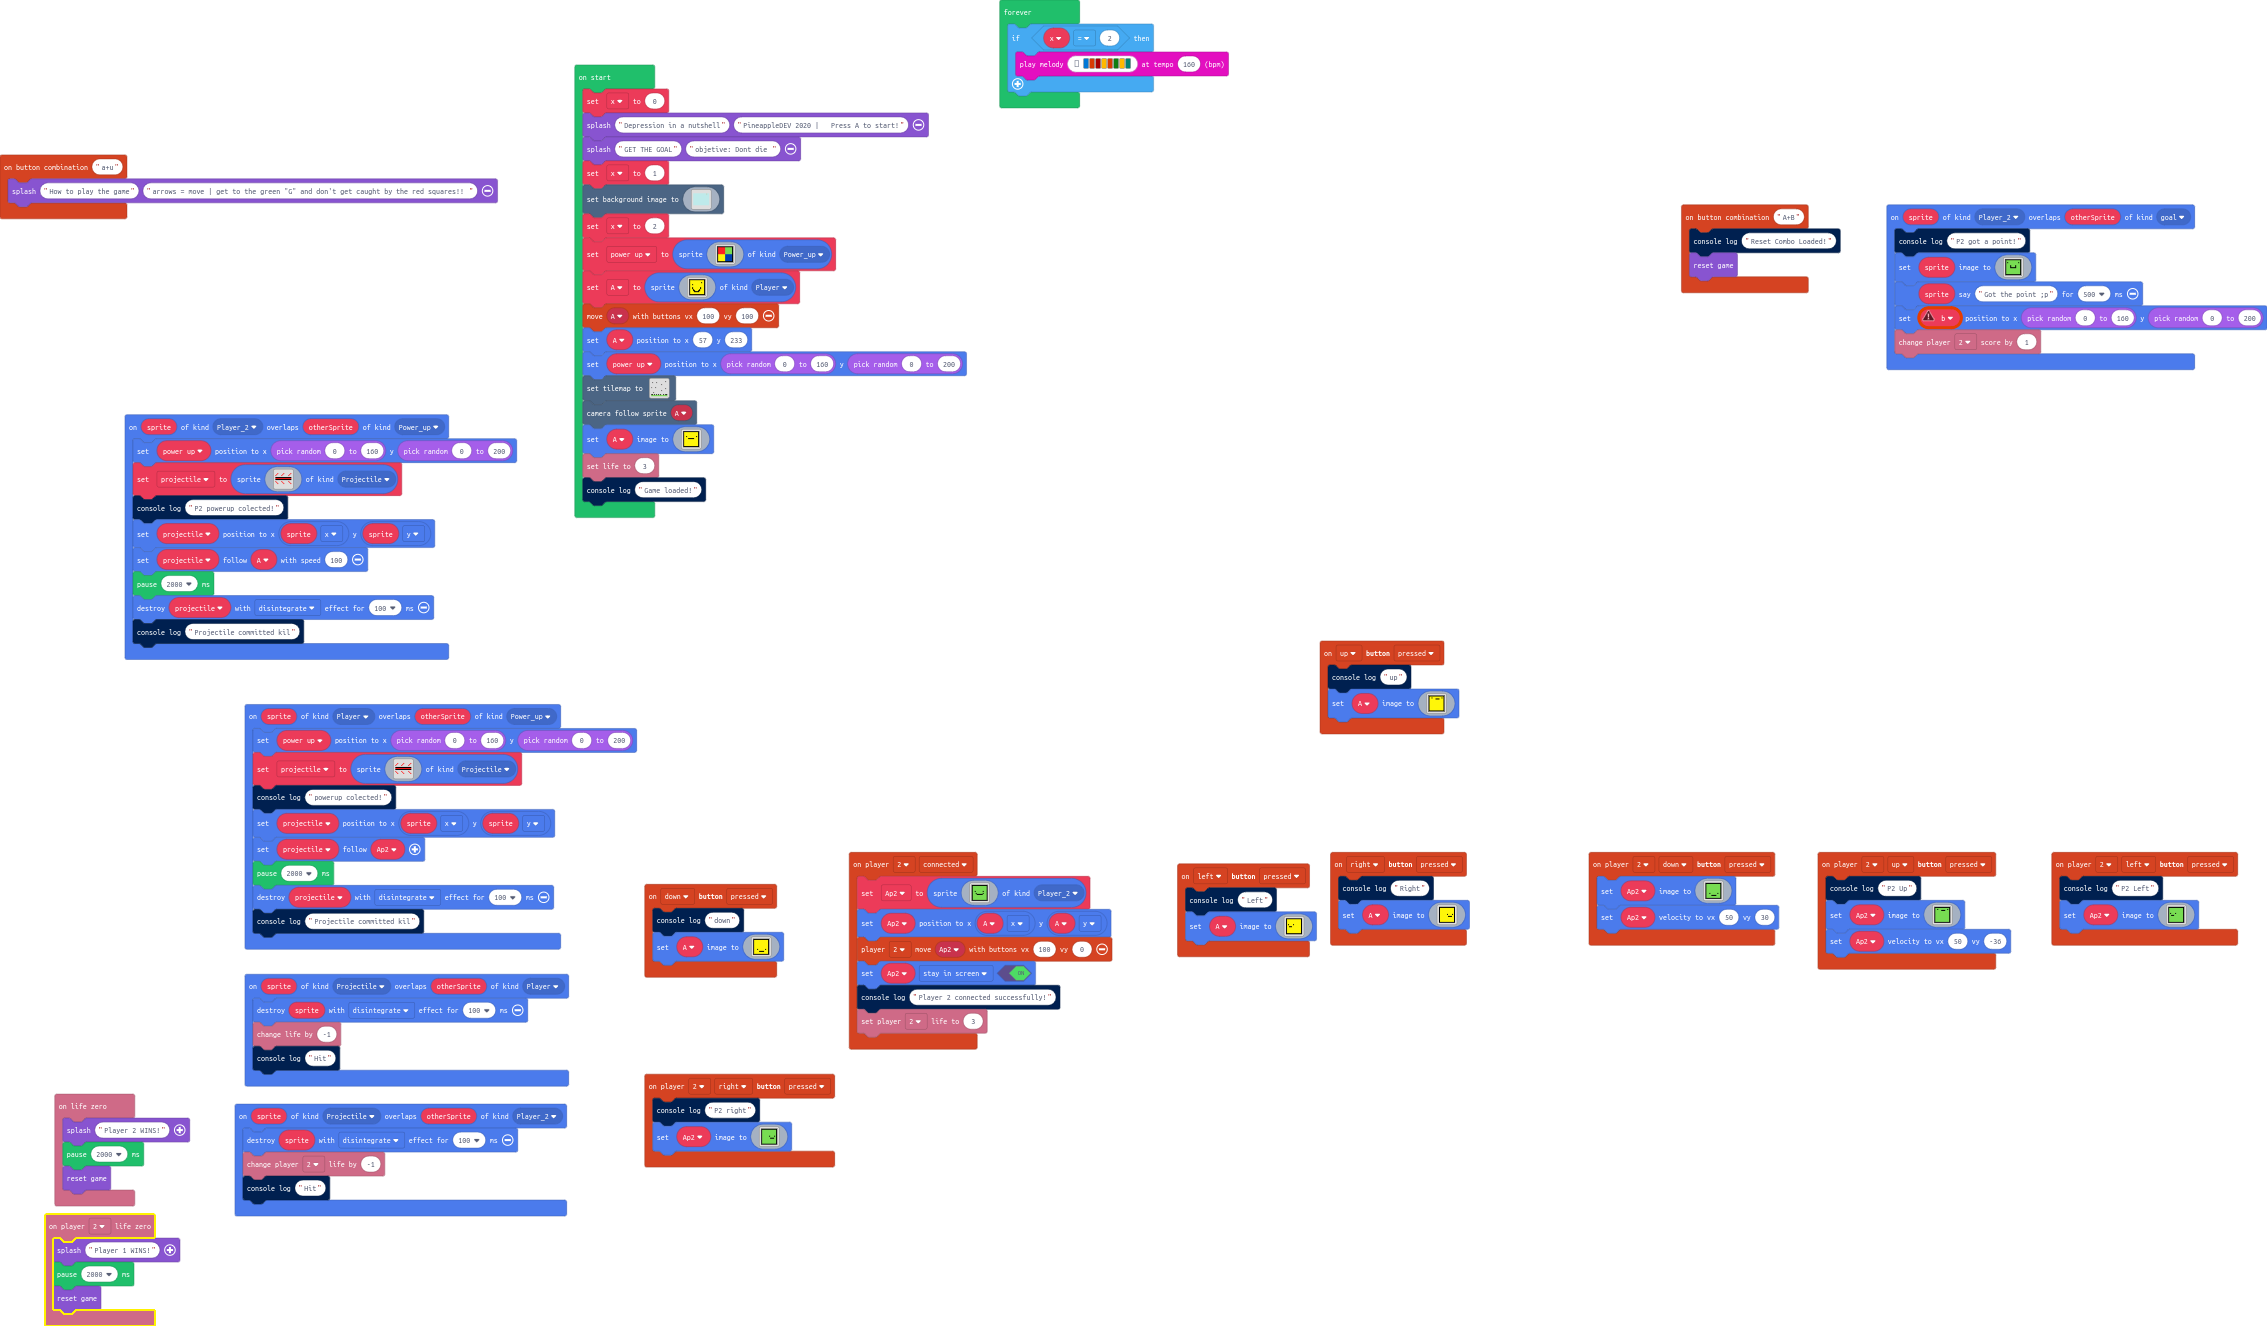
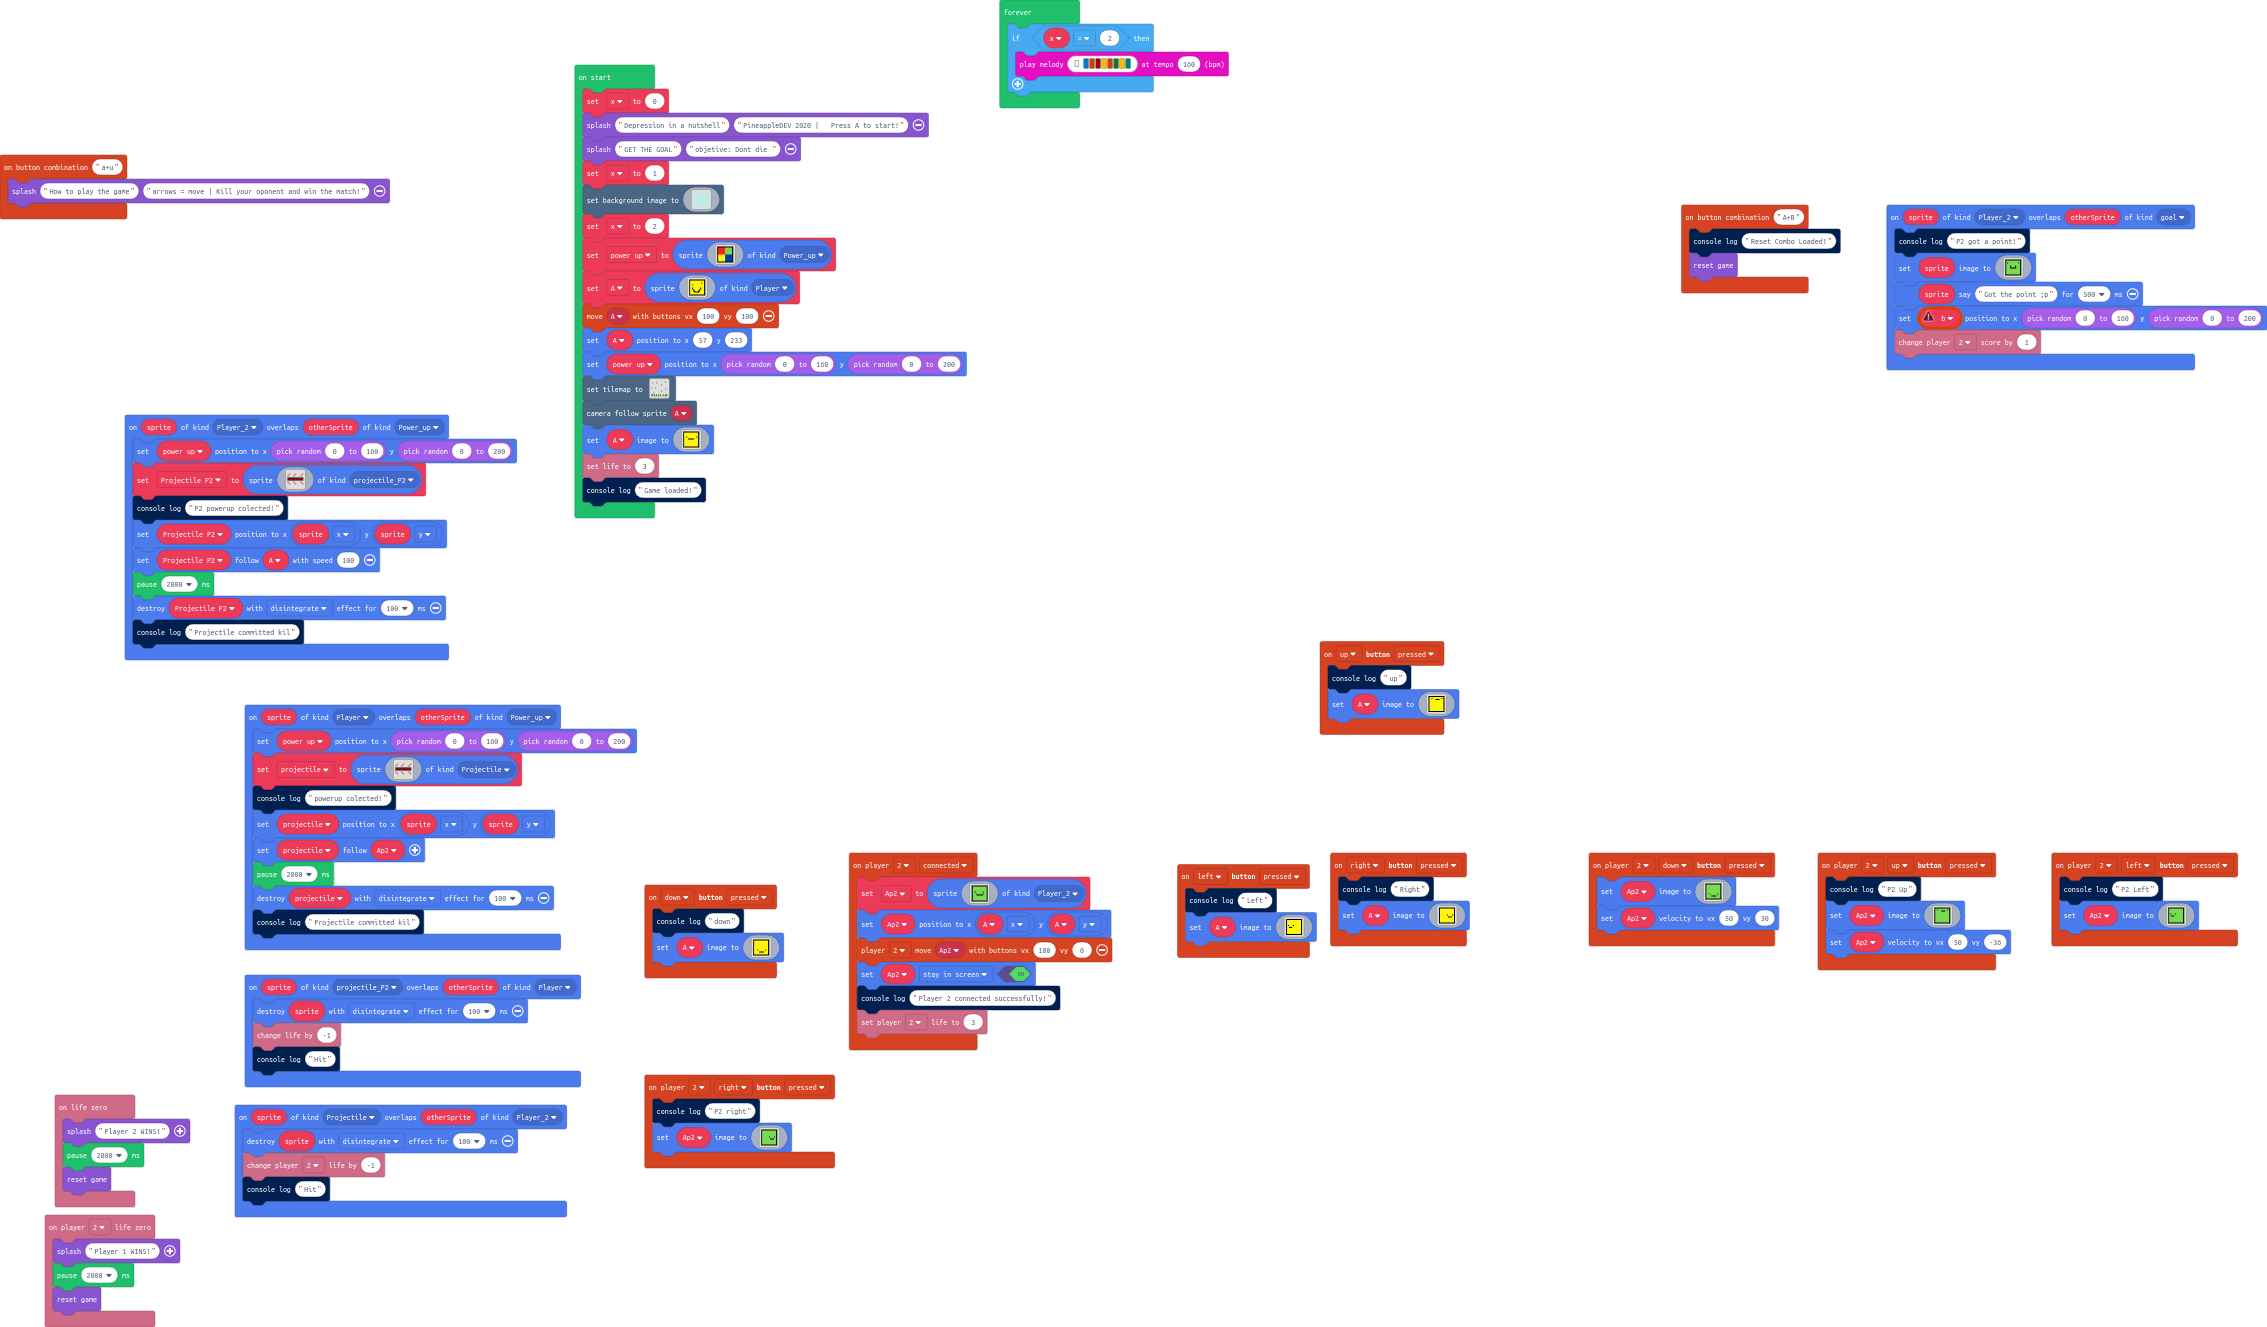
Added Pvp Arena mode!! Next up is More powerups!

diff --git a/main.ts b/main.ts
@@ -3,6 +3,7 @@ namespace SpriteKind {
     export const goal = SpriteKind.create()
     export const Player_2 = SpriteKind.create()
     export const Power_up = SpriteKind.create()
+    export const projectile_P2 = SpriteKind.create()
 }
 namespace myTiles {
     //% blockIdentity=images._tile
@@ -142,7 +143,7 @@ f f f f f f f f f f f f f f f f
 `)
 })
 controller.combos.attachCombo("a+u", function () {
-    game.splash("How to play the game", "arrows = move | get to the green \"G\" and don't get caught by the red squares!! ")
+    game.splash("How to play the game", "arrows = move | Kill your oponent and win the match!")
 })
 controller.down.onEvent(ControllerButtonEvent.Pressed, function () {
     console.log("down")
@@ -185,6 +186,11 @@ f 7 7 7 7 7 7 7 7 7 7 7 7 7 7 f
 f f f f f f f f f f f f f f f f 
 `)
     Ap2.setVelocity(50, 30)
+})
+sprites.onOverlap(SpriteKind.projectile_P2, SpriteKind.Player, function (sprite, otherSprite) {
+    sprite.destroy(effects.disintegrate, 100)
+    info.changeLifeBy(-1)
+    console.log("Hit")
 })
 controller.player2.onEvent(ControllerEvent.Connected, function () {
     Ap2 = sprites.create(img`
@@ -364,7 +370,7 @@ f f f f f f f f f f f f f f f f
 })
 sprites.onOverlap(SpriteKind.Player_2, SpriteKind.Power_up, function (sprite, otherSprite) {
     power_up.setPosition(Math.randomRange(0, 160), Math.randomRange(0, 200))
-    projectile = sprites.create(img`
+    Projectile_P2 = sprites.create(img`
 . . . . . . . . . . . . . . . . 
 . . . . . . . . . . . . . . . . 
 . . 2 . . . . . 2 . . . . . . 2 
@@ -381,12 +387,12 @@ f f f f f f f f f f f f f f f f
 . . . . . . . . . . . . . . . . 
 . . . . . . . . . . . . . . . . 
 . . . . . . . . . . . . . . . . 
-`, SpriteKind.Projectile)
+`, SpriteKind.projectile_P2)
     console.log("P2 powerup colected!")
-    projectile.setPosition(sprite.x, sprite.y)
-    projectile.follow(A, 100)
+    Projectile_P2.setPosition(sprite.x, sprite.y)
+    Projectile_P2.follow(A, 100)
     pause(2000)
-    projectile.destroy(effects.disintegrate, 100)
+    Projectile_P2.destroy(effects.disintegrate, 100)
     console.log("Projectile committed kil")
 })
 controller.up.onEvent(ControllerButtonEvent.Pressed, function () {
@@ -415,11 +421,7 @@ info.onLifeZero(function () {
     pause(2000)
     game.reset()
 })
-sprites.onOverlap(SpriteKind.Projectile, SpriteKind.Player, function (sprite, otherSprite) {
-    sprite.destroy(effects.disintegrate, 100)
-    info.changeLifeBy(-1)
-    console.log("Hit")
-})
+let Projectile_P2: Sprite = null
 let projectile: Sprite = null
 let Ap2: Sprite = null
 let A: Sprite = null
